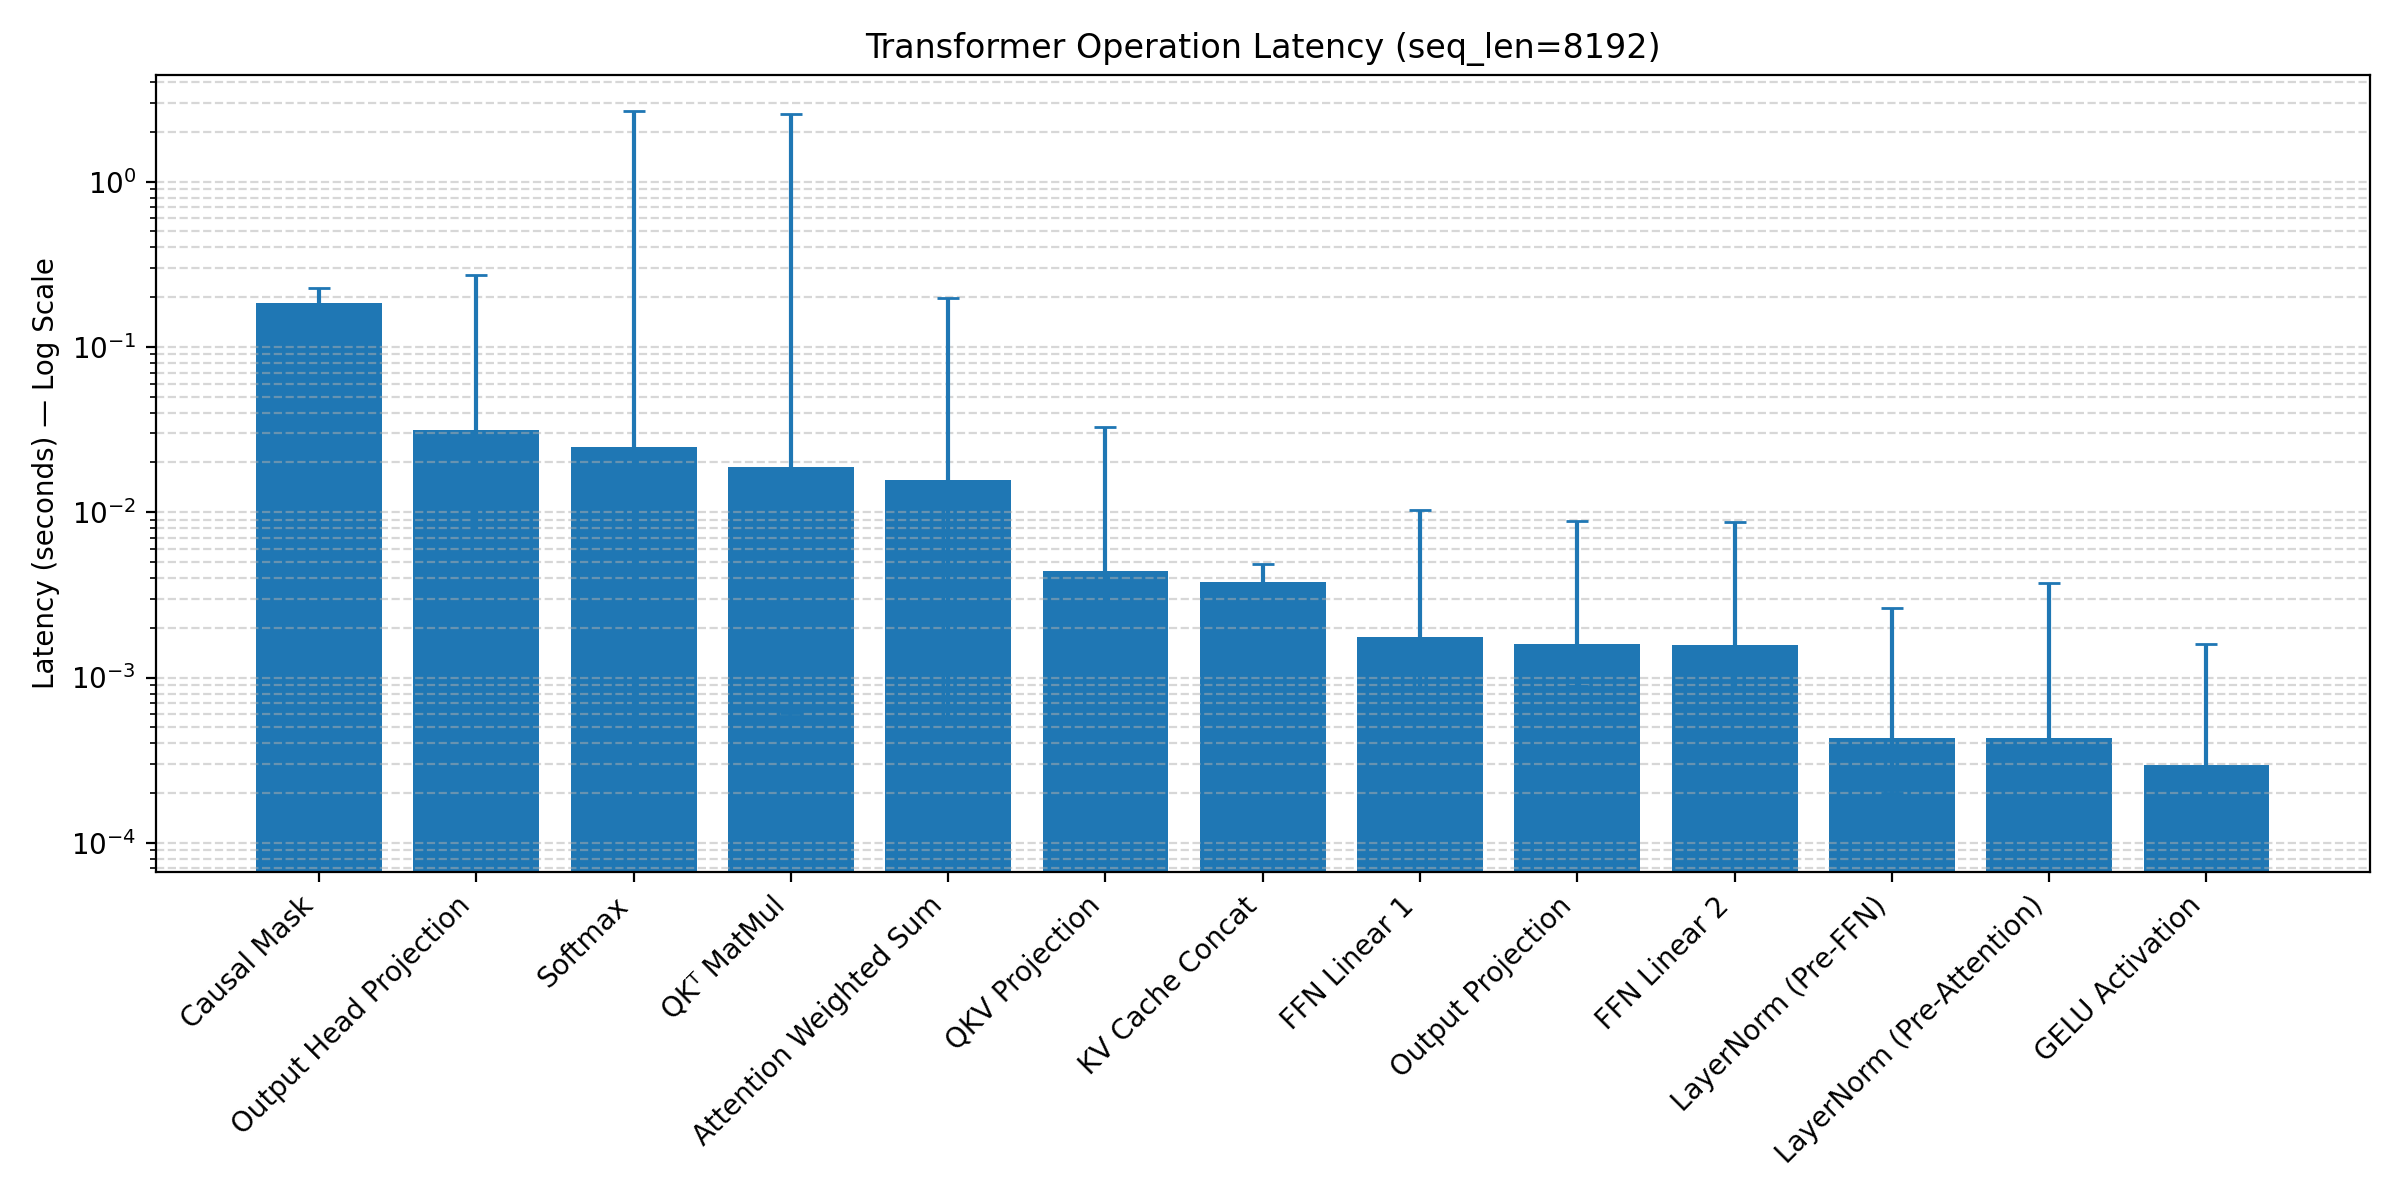
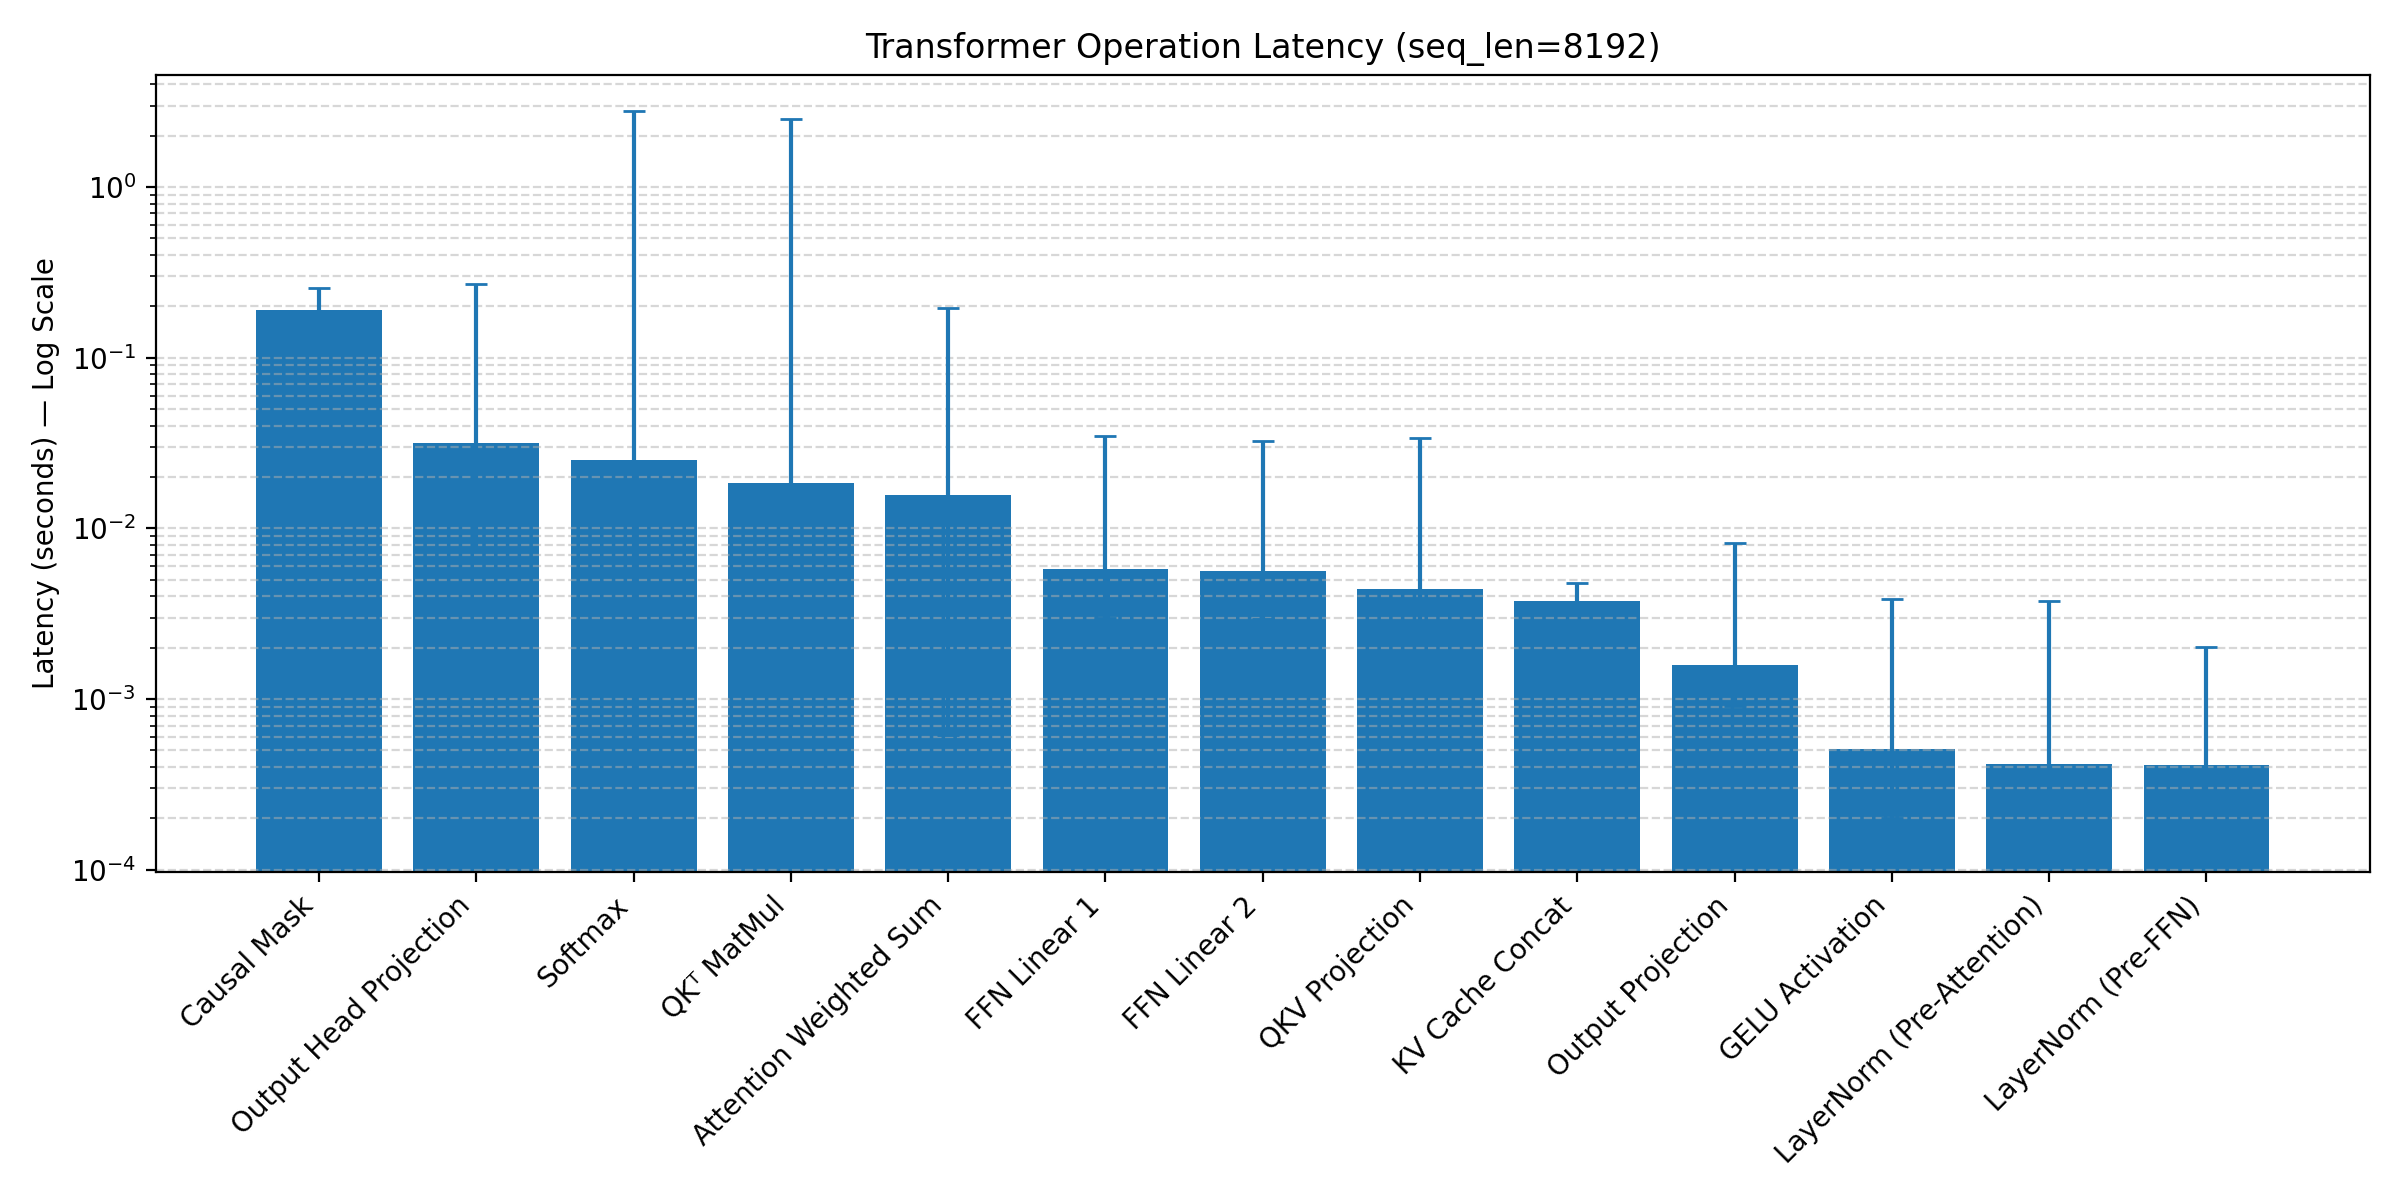
results

diff --git a/run_and_plot.py b/run_and_plot.py
@@ -134,7 +134,39 @@ def plot_latency_pie(df: pd.DataFrame, out_path: str, title_suffix: str = ""):
     plt.close()
     print(f"  Saved pie chart  → {out_path}")
 
+# ------------------------------------------------------------
+# Comparison plot — latency share (%) vs sequence length per op
+# ------------------------------------------------------------
+def plot_comparison_pct(all_dfs: dict, out_dir: str):
+    """Line plot: x = seq_len, y = each op's % share of total avg latency."""
+    records = []
+    for seq_len, df in all_dfs.items():
+        total = df["avg"].sum()
+        for _, row in df.iterrows():
+            records.append({
+                "seq_len":     seq_len,
+                "pretty_name": row["pretty_name"],
+                "pct":         (row["avg"] / total * 100) if total > 0 else 0.0,
+            })
 
+    wide = pd.DataFrame(records).pivot(index="seq_len", columns="pretty_name", values="pct")
+
+    plt.figure(figsize=(13, 7))
+    for col in wide.columns:
+        plt.plot(wide.index, wide[col], marker="o", label=col)
+
+    plt.xlabel("Sequence Length")
+    plt.ylabel("% Share of Total Avg Latency")
+    plt.title("Latency Share (%) vs Sequence Length per Operation")
+    plt.legend(bbox_to_anchor=(1.01, 1), loc="upper left", fontsize=8, frameon=False)
+    plt.grid(which="both", linestyle="--", alpha=0.4)
+    plt.ylim(0, 100)
+    plt.tight_layout()
+
+    path = os.path.join(out_dir, "comparison_pct_latency.png")
+    plt.savefig(path, dpi=200, bbox_inches="tight")
+    plt.close()
+    print(f"Saved % comparison plot → {path}")
 # ------------------------------------------------------------
 # Comparison plot — avg latency vs sequence length per op
 # ------------------------------------------------------------
@@ -212,6 +244,7 @@ def main():
     # Cross-sequence comparison plot
     if len(all_dfs) > 1:
         plot_comparison(all_dfs, out_dir)
+        plot_comparison_pct(all_dfs, out_dir)
 
     print("\nDone.")
 

diff --git a/llm_kv.py b/llm_kv.py
@@ -164,9 +164,9 @@ class MultiHeadAttention(nn.Module):
 class FeedForward(nn.Module):
     def __init__(self, emb_dim, drop_rate):
         super().__init__()
-        self.lin1 = nn.Linear(emb_dim, emb_dim)
+        self.lin1 = nn.Linear(emb_dim, 4*emb_dim)
         self.act = nn.GELU()
-        self.lin2 = nn.Linear(emb_dim, emb_dim)
+        self.lin2 = nn.Linear(4*emb_dim, emb_dim)
         self.drop_rate = drop_rate
 
     def forward(self, x):
@@ -338,7 +338,7 @@ def main():
     )
     tokenizer = tiktoken.get_encoding("gpt2")
     decoded_text = tokenizer.decode(out.squeeze(0).tolist())
-    print("Output text:", decoded_text)
+    # print("Output text:", decoded_text)
     print("\n" + LATENCY.report())
 
 
